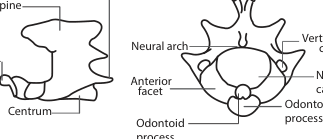
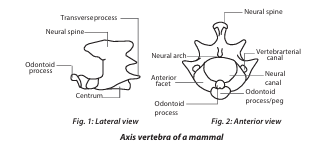
batch one of a-b diagrams

diff --git a/core_dictionary_diagrams.js b/core_dictionary_diagrams.js
@@ -13,7 +13,7 @@ var DictionaryDiagrams = {
     "abdomen (abdominal cavity)": "diagrams/dict_abdomen.png",
     "abdominal cavity": "diagrams/dict_abdomen.png",
     "aberration": "diagrams/dict_aberration.png",
-    "abo blood group": "diagrams/dict_abo_blood_group_system.png",
+    "abo blood group": "diagrams/dict_abo_blood_group.png",
     "abo blood group system": "diagrams/dict_abo_blood_group_system.png",
     "abomasum": "diagrams/dict_abomasum.png",
     "abomasum (true stomach)": "diagrams/dict_abomasum_true_stomach.png",
@@ -21,7 +21,7 @@ var DictionaryDiagrams = {
     "abruptly pinnate (even pinnate)": "diagrams/dict_abruptly_pinnate_even_pinnate.png",
     "abscissa": "diagrams/dict_abscissa.png",
     "absorption spectrum": "diagrams/dict_absorption_spectrum.png",
-    "acceleration": "diagrams/dict_acceleration.png",
+    "acceleration": "diagrams/dict_acceleration_time_graph.png",
     "acceleration due to gravity": "diagrams/dict_acceleration_due_to_gravity.png",
     "acceleration time graph": "diagrams/dict_acceleration_time_graph.png",
     "acceleration-time graph": "diagrams/dict_acceleration_time_graph.png",
@@ -199,9 +199,9 @@ var DictionaryDiagrams = {
     "autotransformer": "diagrams/dict_autotransformer.png",
     "auxin": "diagrams/dict_auxin.png",
     "awn": "diagrams/dict_awn.png",
-    "axis": "diagrams/dict_axis.png",
+    "axis": "diagrams/dict_axis_vertebra.png",
     "axis of symmetry": "diagrams/dict_axis_of_symmetry.png",
-    "axis vertebra": "diagrams/dict_axis.png",
+    "axis vertebra": "diagrams/dict_axis_vertebra.png",
     "azo compound": "diagrams/dict_azo_compound.png",
     "bacterial growth curve": "diagrams/dict_bacterial_growth_curve.png",
     "baermann funnel": "diagrams/dict_baermann_funnel.png",
@@ -1025,10 +1025,11 @@ var DictionaryDiagrams = {
     "valine": "diagrams/dict_valine.png",
     "volcano": "diagrams/dict_volcano.png",
     "water cycle": "diagrams/dict_water_cycle.png",
-    "wave": "diagrams/dict_wave.png"
+    "wave": "diagrams/dict_wave.png",
+    "azo dye": "diagrams/dict_azo_dye.png",
+    "distortion aberration": "diagrams/dict_distortion.png",
+    "chromatic aberration": "diagrams/dict_chromatic_aberration.png",
+    "spherical aberration": "diagrams/dict_spherical_aberration.png",
+    "acceleration-time-graph": "diagrams/dict_acceleration_time_graph.png",
+    "instantaneous acceleration": "diagrams/dict_instantaneous_acceleration.png"
 };
-
-if (typeof window !== 'undefined') {
-    window.DictionaryDiagrams = DictionaryDiagrams;
-}
-

diff --git a/scripts/save_batch_1.py b/scripts/save_batch_1.py
@@ -1,0 +1,129 @@
+import os
+import json
+from PIL import Image
+
+src_dir = r"c:\Users\Desmond\Desktop\final_osmosis\section a-b images"
+out_dir = r"c:\Users\Desmond\Desktop\final_osmosis\diagrams"
+map_json_path = r"c:\Users\Desmond\Desktop\final_osmosis\dictionary_diagrams_map.json"
+core_js_path = r"c:\Users\Desmond\Desktop\final_osmosis\core_dictionary_diagrams.js"
+
+def trim_borders(im, top_offset=0, bottom_offset=0, left_offset=0, right_offset=0):
+    w, h = im.size
+    crop_box = (
+        max(0, left_offset),
+        max(0, top_offset),
+        min(w, w - right_offset),
+        min(h, h - bottom_offset)
+    )
+    return im.crop(crop_box)
+
+def process_batch_1():
+    # 1. Axis vertebra: (324, 161)
+    im1 = Image.open(os.path.join(src_dir, "Screenshot 2026-08-03 161441.png"))
+    # remove top line (y: ~5) and bottom line (y: ~152)
+    crop1 = trim_borders(im1, top_offset=8, bottom_offset=10)
+    crop1.save(os.path.join(out_dir, "dict_axis_vertebra.png"))
+
+    # 2. Azo dye: (267, 216)
+    im2 = Image.open(os.path.join(src_dir, "Screenshot 2026-08-03 161817.png"))
+    crop2 = trim_borders(im2, top_offset=16, bottom_offset=12)
+    crop2.save(os.path.join(out_dir, "dict_azo_compound.png"))
+    crop2.save(os.path.join(out_dir, "dict_azo_dye.png"))
+
+    # 3. Axis of symmetry: (242, 317)
+    im3 = Image.open(os.path.join(src_dir, "Screenshot 2026-08-03 161835.png"))
+    crop3 = trim_borders(im3, top_offset=12, bottom_offset=12)
+    crop3.save(os.path.join(out_dir, "dict_axis_of_symmetry.png"))
+
+    # 4. Screenshot 162009: (533, 560) -> Fig 1 Astigmatism (top) & Fig II Distortion (bottom)
+    im4 = Image.open(os.path.join(src_dir, "Screenshot 2026-08-03 162009.png"))
+    # Astigmatism is from top down to horizontal separator around y=275
+    crop4_astig = trim_borders(im4.crop((0, 10, 533, 275)), top_offset=5, bottom_offset=5)
+    crop4_astig.save(os.path.join(out_dir, "dict_astigmatism.png"))
+    # Distortion is from y=285 to bottom line around y=530
+    crop4_dist = trim_borders(im4.crop((0, 285, 533, 535)), top_offset=5, bottom_offset=5)
+    crop4_dist.save(os.path.join(out_dir, "dict_distortion.png"))
+
+    # 5. Screenshot 162107: (377, 837) -> Fig III Chromatic (top), Fig IV Spherical lens, Fig V Spherical mirror
+    im5 = Image.open(os.path.join(src_dir, "Screenshot 2026-08-03 162107.png"))
+    # Fig III Chromatic aberration: y=15 to y=440
+    crop5_chrom = trim_borders(im5.crop((0, 15, 377, 440)), top_offset=5, bottom_offset=5)
+    crop5_chrom.save(os.path.join(out_dir, "dict_chromatic_aberration.png"))
+    # Fig IV & V Spherical aberration: y=445 to y=815
+    crop5_spher = trim_borders(im5.crop((0, 445, 377, 815)), top_offset=5, bottom_offset=5)
+    crop5_spher.save(os.path.join(out_dir, "dict_spherical_aberration.png"))
+    # Entire cleaned aberration
+    crop5_all = trim_borders(im5, top_offset=15, bottom_offset=25)
+    crop5_all.save(os.path.join(out_dir, "dict_aberration.png"))
+
+    # 6. Screenshot 162120: (383, 220) -> Blue light focuses at B vs Red at R
+    im6 = Image.open(os.path.join(src_dir, "Screenshot 2026-08-03 162120.png"))
+    crop6 = trim_borders(im6, top_offset=22, bottom_offset=22)
+    crop6.save(os.path.join(out_dir, "dict_chromatic_aberration_focus.png"))
+
+    # 7. Screenshot 162141: (494, 258) -> ABO Blood Group System
+    im7 = Image.open(os.path.join(src_dir, "Screenshot 2026-08-03 162141.png"))
+    crop7 = trim_borders(im7, top_offset=14, bottom_offset=14)
+    crop7.save(os.path.join(out_dir, "dict_abo_blood_group_system.png"))
+    crop7.save(os.path.join(out_dir, "dict_abo_blood_group.png"))
+
+    # 8. Screenshot 162157: (465, 310) -> Abomasum of a cow
+    im8 = Image.open(os.path.join(src_dir, "Screenshot 2026-08-03 162157.png"))
+    crop8 = trim_borders(im8, top_offset=16, bottom_offset=16)
+    crop8.save(os.path.join(out_dir, "dict_abomasum.png"))
+    crop8.save(os.path.join(out_dir, "dict_abomasum_true_stomach.png"))
+
+    # 9. Screenshot 162218: (472, 219) -> Absorption spectrum
+    im9 = Image.open(os.path.join(src_dir, "Screenshot 2026-08-03 162218.png"))
+    crop9 = trim_borders(im9, top_offset=14, bottom_offset=10)
+    crop9.save(os.path.join(out_dir, "dict_absorption_spectrum.png"))
+
+    # 10. Screenshot 162233: (267, 268) -> Instantaneous Acceleration Graph
+    im10 = Image.open(os.path.join(src_dir, "Screenshot 2026-08-03 162233.png"))
+    crop10 = trim_borders(im10, top_offset=12, bottom_offset=12)
+    crop10.save(os.path.join(out_dir, "dict_acceleration_time_graph.png"))
+    crop10.save(os.path.join(out_dir, "dict_instantaneous_acceleration.png"))
+
+    print("Cropping and saving images complete.")
+
+    # Update dictionary_diagrams_map.json
+    with open(map_json_path, "r", encoding="utf-8") as f:
+        diag_map = json.load(f)
+
+    new_mappings = {
+        "axis": "diagrams/dict_axis_vertebra.png",
+        "axis vertebra": "diagrams/dict_axis_vertebra.png",
+        "azo compound": "diagrams/dict_azo_compound.png",
+        "azo dye": "diagrams/dict_azo_dye.png",
+        "axis of symmetry": "diagrams/dict_axis_of_symmetry.png",
+        "astigmatism": "diagrams/dict_astigmatism.png",
+        "distortion": "diagrams/dict_distortion.png",
+        "distortion aberration": "diagrams/dict_distortion.png",
+        "aberration": "diagrams/dict_aberration.png",
+        "chromatic aberration": "diagrams/dict_chromatic_aberration.png",
+        "spherical aberration": "diagrams/dict_spherical_aberration.png",
+        "abo blood group": "diagrams/dict_abo_blood_group.png",
+        "abo blood group system": "diagrams/dict_abo_blood_group_system.png",
+        "abomasum": "diagrams/dict_abomasum.png",
+        "abomasum (true stomach)": "diagrams/dict_abomasum_true_stomach.png",
+        "absorption spectrum": "diagrams/dict_absorption_spectrum.png",
+        "acceleration": "diagrams/dict_acceleration_time_graph.png",
+        "acceleration-time graph": "diagrams/dict_acceleration_time_graph.png",
+        "acceleration-time-graph": "diagrams/dict_acceleration_time_graph.png",
+        "instantaneous acceleration": "diagrams/dict_instantaneous_acceleration.png"
+    }
+
+    diag_map.update(new_mappings)
+
+    with open(map_json_path, "w", encoding="utf-8") as f:
+        json.dump(diag_map, f, indent=4, ensure_ascii=False)
+
+    # Update core_dictionary_diagrams.js
+    js_content = "// core_dictionary_diagrams.js (Audited STEM Diagram Mappings)\n\nvar DictionaryDiagrams = " + json.dumps(diag_map, indent=4, ensure_ascii=False) + ";\n"
+    with open(core_js_path, "w", encoding="utf-8") as f:
+        f.write(js_content)
+
+    print("Updated dictionary_diagrams_map.json and core_dictionary_diagrams.js successfully.")
+
+if __name__ == "__main__":
+    process_batch_1()

diff --git a/scripts/test_crop_batch_1.py b/scripts/test_crop_batch_1.py
@@ -1,0 +1,79 @@
+import os
+import numpy as np
+from PIL import Image
+
+src_dir = r"c:\Users\Desmond\Desktop\final_osmosis\section a-b images"
+out_dir = r"c:\Users\Desmond\Desktop\final_osmosis\diagrams"
+
+def clean_and_crop_image(img_path):
+    im = Image.open(img_path).convert("RGBA")
+    # Convert transparent pixels or near-white to white
+    bg = Image.new("RGBA", im.size, (255, 255, 255, 255))
+    im = Image.alpha_composite(bg, im).convert("RGB")
+    arr = np.array(im)
+    
+    # We want to identify horizontal separator lines that are near top or bottom.
+    # Typically, a separator line is a row where many pixels are very dark (< 60) across >= 70% width.
+    h, w, _ = arr.shape
+    gray = np.mean(arr, axis=2)
+    
+    # Find separator lines near top (y < h * 0.15)
+    top_crop = 0
+    for y in range(int(h * 0.20)):
+        dark_ratio = np.sum(gray[y, :] < 100) / w
+        if dark_ratio > 0.4: # Horizontal line detected
+            top_crop = y + 2
+            
+    # Find separator lines near bottom (y > h * 0.85)
+    bottom_crop = h
+    for y in range(h - 1, int(h * 0.80), -1):
+        dark_ratio = np.sum(gray[y, :] < 100) / w
+        if dark_ratio > 0.4: # Horizontal line detected
+            bottom_crop = y - 2
+            
+    if top_crop >= bottom_crop:
+        top_crop = 0
+        bottom_crop = h
+
+    cropped = im.crop((0, top_crop, w, bottom_crop))
+    
+    # Now trim remaining whitespace with a 10px margin
+    c_arr = np.array(cropped)
+    c_gray = np.mean(c_arr, axis=2)
+    # find bounding box of content (pixels < 240)
+    rows = np.any(c_gray < 240, axis=1)
+    cols = np.any(c_gray < 240, axis=0)
+    if np.any(rows) and np.any(cols):
+        rmin, rmax = np.where(rows)[0][[0, -1]]
+        cmin, cmax = np.where(cols)[0][[0, -1]]
+        # pad by 12px
+        ch, cw, _ = c_arr.shape
+        rmin = max(0, rmin - 12)
+        rmax = min(ch, rmax + 13)
+        cmin = max(0, cmin - 12)
+        cmax = min(cw, cmax + 13)
+        final_img = cropped.crop((cmin, rmin, cmax, rmax))
+        return final_img
+    return cropped
+
+# Let's inspect cropping for Image 1 to 10
+files = [
+    "Screenshot 2026-08-03 161441.png",
+    "Screenshot 2026-08-03 161817.png",
+    "Screenshot 2026-08-03 161835.png",
+    "Screenshot 2026-08-03 162009.png",
+    "Screenshot 2026-08-03 162107.png",
+    "Screenshot 2026-08-03 162120.png",
+    "Screenshot 2026-08-03 162141.png",
+    "Screenshot 2026-08-03 162157.png",
+    "Screenshot 2026-08-03 162218.png",
+    "Screenshot 2026-08-03 162233.png"
+]
+
+os.makedirs("scratch/batch1_preview", exist_ok=True)
+for idx, f in enumerate(files):
+    p = os.path.join(src_dir, f)
+    res = clean_and_crop_image(p)
+    out_p = f"scratch/batch1_preview/preview_{idx+1}.png"
+    res.save(out_p)
+    print(f"Processed {f} -> size {res.size} saved to {out_p}")

diff --git a/scripts/match_batch_1_words.py b/scripts/match_batch_1_words.py
@@ -1,0 +1,29 @@
+import json
+
+with open("dictionary.json", "r", encoding="utf-8") as f:
+    data = json.load(f)
+
+terms_to_check = [
+    "axis", "azo", "symmetry", "parabola", "astigmatism", 
+    "distortion", "aberration", "chromatic", "spherical",
+    "abo", "blood group", "abomasum", "absorption", "acceleration"
+]
+
+results = {}
+for letter, entries in data.items():
+    for entry in entries:
+        w = entry.get("word", "").lower()
+        raw = entry.get("raw_headword", "").lower()
+        syns = [s.lower() for s in entry.get("synonyms", [])]
+        all_names = [w, raw] + syns
+        for term in terms_to_check:
+            for n in all_names:
+                if term in n:
+                    if term not in results:
+                        results[term] = set()
+                    results[term].add((w, raw))
+
+for term, matches in results.items():
+    print(f"=== {term} ===")
+    for w, raw in sorted(list(matches))[:10]:
+        print(f"  word: '{w}', raw: '{raw}'")

diff --git a/scripts/check_batch_1.py b/scripts/check_batch_1.py
@@ -1,0 +1,26 @@
+import os
+from PIL import Image
+
+src_dir = r"c:\Users\Desmond\Desktop\final_osmosis\section a-b images"
+out_dir = r"c:\Users\Desmond\Desktop\final_osmosis\diagrams"
+
+def get_dimensions():
+    files = [
+        "Screenshot 2026-08-03 161441.png",
+        "Screenshot 2026-08-03 161817.png",
+        "Screenshot 2026-08-03 161835.png",
+        "Screenshot 2026-08-03 162009.png",
+        "Screenshot 2026-08-03 162107.png",
+        "Screenshot 2026-08-03 162120.png",
+        "Screenshot 2026-08-03 162141.png",
+        "Screenshot 2026-08-03 162157.png",
+        "Screenshot 2026-08-03 162218.png",
+        "Screenshot 2026-08-03 162233.png"
+    ]
+    for f in files:
+        p = os.path.join(src_dir, f)
+        im = Image.open(p)
+        print(f"{f}: size={im.size}, mode={im.mode}")
+
+if __name__ == "__main__":
+    get_dimensions()
